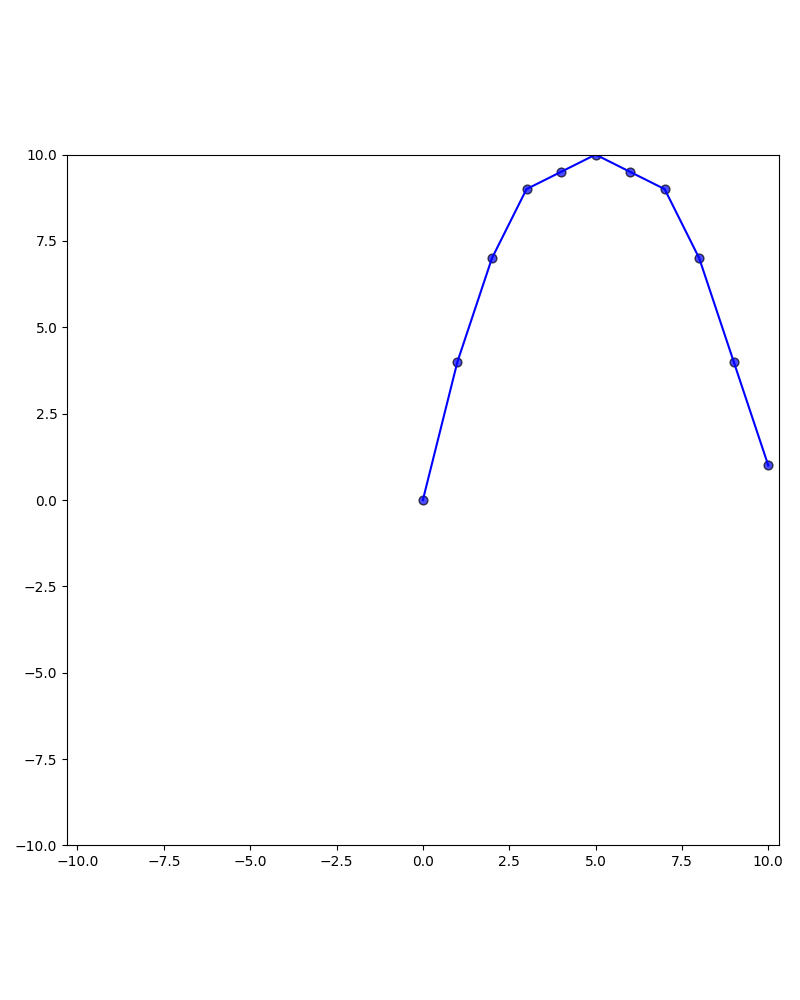
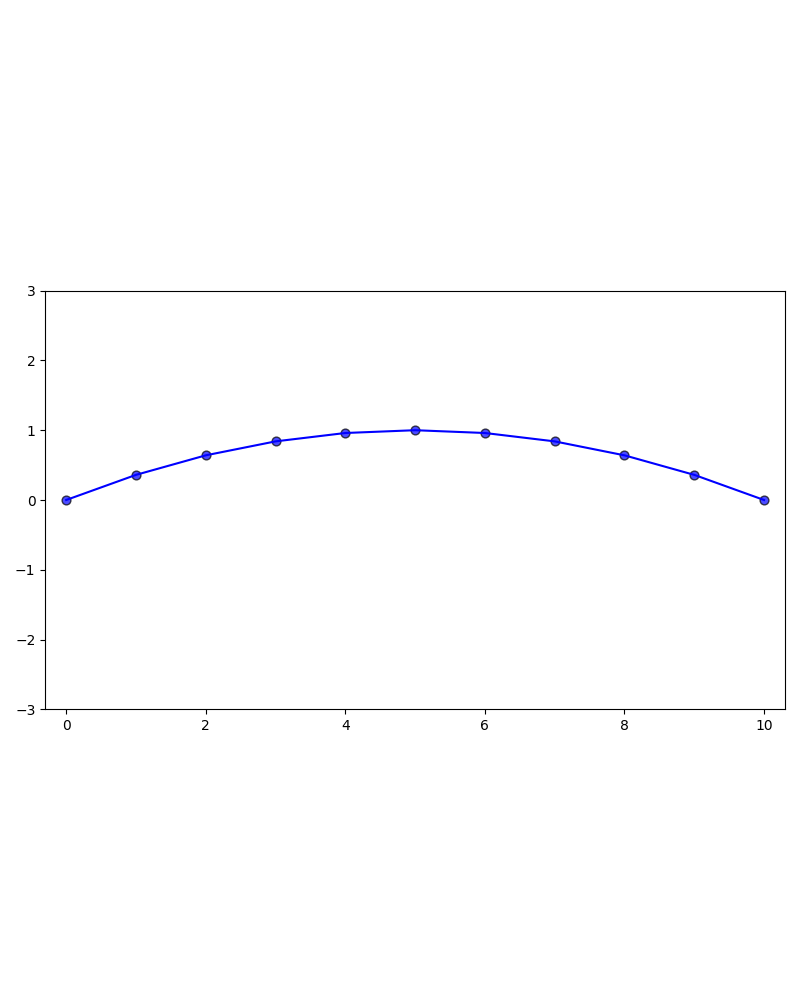
can decline, wait check

diff --git a/mylib/type.py b/mylib/type.py
@@ -414,131 +414,125 @@ class GeoNonlinear: # 几何非线性
 
         return outputs
 
-    def arc_length_method(self, steps = 200, error: float=1e-3, max_p_detect = True, la_0 = 0.005) -> None:
+    def arc_length_method(self, steps = 200, error: float=1e-3, max_p_detect = True, s = 0.005) -> None:
         # try:
-        # 弧长迭代求解
         self.calculateNumber()
         self.integratePe()
         F = [np.zeros((self.points_num * 3, 1))]
         u = [np.zeros((self.points_num * 3, 1))]
-        P = []  # 初始化P
-        P.append(la_0 * self.Pe)
+        la: list[float] = [0]
+        
         outputs: list[OutputData] = []
-        la = la_0
-        peak = False  # 是否达到峰值
 
         for step in range(steps):
             iter: int = 0
-            P_step = P[step].copy()  # 逐步加载
             F_step = F[step].copy()
             u_step = u[step].copy()
+            la_step = la[step]
+            if step == 0:
+                d_init = np.vstack((u_step, la_step))
+            else:
+                d_init = np.vstack((u_step - u[step - 1], la_step - la[step - 1]))
 
-            R_step = P_step - F_step
-            dL = 0
-            self.integrateKe()
-            max_p = False
-            # dLs = []
-
-            while max(abs(R_step)) >= error * max(abs(la_0 * self.Pe)):
+            while iter == 0 or max(abs(R_step)) >= error * max(abs(la_step * self.Pe)):
                 iter += 1
-                print(f"step: {step}, iteration: {iter}, la: {la}")
+                print(f"step: {step}, iteration: {iter}, la: {la_step}")
                 self.reset()
-                self.calculateA(R_step)
-                u_step_delta = np.array(self.Result).reshape((self.points_num * 3, 1))
-                f_step_delta = dL * self.Pe.reshape((self.points_num * 3, 1))
-                # vector_delta = np.vstack((u_step_delta, f_step_delta))
-                vector_delta = np.vstack((u_step_delta, dL))
-                back = np.matmul(vector_delta.T, vector_delta)[0][0]
-                if back < 0:  # 如果
-                    dL = -dL
-                if step == 78:
-                    1==1
-
-
-                for unit in self.units:
-                    unit.split_displacement()
-                    delta_F = unit.calculateF()
-                    unit.unit_F += delta_F
-                F_step = self.integrateF()
-
-                u_step += u_step_delta
-                R_step = P_step - F_step
-                for point in self.points:
-                    point.update()
-                for unit in self.units:
-                    unit.update()
                 self.integrateKe()
 
-                # region calculate delta_lambda
+                if iter == 1:
+                    self.calculateA(self.Pe)
+                    u_step_delta = np.array(self.Result).reshape((self.points_num * 3, 1))
+                    dL = s/np.sqrt(np.matmul(u_step_delta.T, u_step_delta)[0][0]+1)
+                    # self.Result = dL * self.Result
+                    u_step_delta *= dL
+                    for point in self.points:
+                        point.ax *= dL
+                        point.ay *= dL
+                        point.a_theta *= dL
+                    # f_step_delta = dL * self.Pe.reshape((self.points_num * 3, 1))
+                    # d_delta = np.vstack((u_step_delta, f_step_delta))
 
-                ff = np.matmul(self.Pe.T, self.Pe)[0][0]  
-                inv = np.linalg.inv(self.Kg_calc)
-                
-                cl = self.addConstraint()
-                mask = [i for i in range(self.points_num * 3) if i not in cl]
-                r = R_step[np.ix_(mask)].reshape((self.points_num * 3 - len(cl), 1))
-                x = u_step[np.ix_(mask)].reshape((self.points_num * 3 - len(cl), 1))
+                    d_delta = np.vstack((u_step_delta, dL))
+                    if np.matmul(d_delta.T, d_init)[0][0] < 0:
+                        dL = -dL
+                        u_step_delta = -u_step_delta
+                        for point in self.points:
+                            point.ax = -point.ax
+                            point.ay = -point.ay
+                            point.a_theta = -point.a_theta
 
-                Kr = np.matmul(inv, r).reshape((self.points_num * 3 - len(cl), 1))
-                Kf = np.matmul(inv, self.Pe_calc)
+                    for unit in self.units:
+                        unit.split_displacement()
+                        delta_F = unit.calculateF()
+                        unit.unit_F += delta_F
+                    F_step = self.integrateF()
+                    for point in self.points:
+                        point.update()
+                    for unit in self.units:
+                        unit.update()
 
-                a = (ff + np.matmul(Kf.T, Kf))
-                b = 2*(la*ff - np.matmul(Kf.T, (Kr + x)))[0]
-                c = (np.matmul(Kr.T, (Kr+2*x)))[0][0]
-
-                roots = np.roots([a, b, c])
-                dL = roots[np.argmin(abs(roots))].real  # 选择最小的根
-                
-                # endregion
-
-                la += dL
-                P_step += dL * self.Pe
-                R_step += dL * self.Pe
-                for ci in self.cl:
-                    R_step[ci] = 0
-
-                # region check divergence
-
-                # dLs.append(dL)
-                # if len(dLs) > 2 and dLs[-1] * dLs[-2] < 0 and abs(dLs[-1]) > abs(dLs[-3]):
-                #     print(f"Warning: dL is increasing: {dLs[-1]} > {dLs[-2]}")
-                #     la_0 = -la_0
-                #     la += 2*la_0
-                #     P_step += 2*la_0 * self.Pe
-                #     R_step += 2*la_0 * self.Pe
-                #     for ci in self.cl:
-                #         R_step[ci] = 0
-                #     dLs = []
-                # endregion
-
-            # region max load detection
-            """ peak detection == True"""
-            if max_p_detect:
-                if max(abs(self.Pe - P_step))/max(abs(self.Pe)) < error: # 如果弧长接近1，认为达到了目标荷载
-                    max_p = True
-
-                if max(abs(P_step + la_0 * self.Pe))/max(abs(self.Pe)) < 1:
-                    P_step += la_0 * self.Pe
-                    la = la_0
+                    u_step += u_step_delta
+                    la_step += dL
+                    R_step = la_step * self.Pe - F_step
+                    for c in self.cl:
+                        R_step[c] = 0
+                    continue
                 else:
-                    P_step = self.Pe
-                    la = la_0
-            else:
-                """peak detection == False"""
-                P_step += la_0 * self.Pe
-                la += la_0
-            # endregion
+                    # region calculate delta_lambda
 
+                    ff = np.matmul(self.Pe.T, self.Pe)[0][0]  
+                    inv = np.linalg.inv(self.Kg_calc)
+                    
+                    cl = self.addConstraint()
+                    mask = [i for i in range(self.points_num * 3) if i not in cl]
+                    r = R_step[np.ix_(mask)].reshape((self.points_num * 3 - len(cl), 1))
+                    x = u_step[np.ix_(mask)].reshape((self.points_num * 3 - len(cl), 1))
+
+                    Kr = np.matmul(inv, r).reshape((self.points_num * 3 - len(cl), 1))
+                    Kf = np.matmul(inv, self.Pe_calc)
+
+                    a = (ff + np.matmul(Kf.T, Kf))
+                    b = 2*(la_step*ff - np.matmul(Kf.T, (Kr + x)))[0]
+                    c = (np.matmul(Kr.T, (Kr+2*x)))[0][0]
+
+                    roots = np.roots([a, b, c])
+                    dL = roots[np.argmin(abs(roots))].real  # 选择最小的根
+                    
+                    # endregion
+
+                    la_step += dL
+                    R_step = la_step * self.Pe - F_step
+                    for c in self.cl:
+                        R_step[c] = 0
+                    self.calculateA(R_step)
+                    u_step_delta = np.array(self.Result).reshape((self.points_num * 3, 1))
+                    for unit in self.units:
+                        unit.split_displacement()
+                        delta_F = unit.calculateF()
+                        unit.unit_F += delta_F
+                    F_step = self.integrateF()
+                    u_step += u_step_delta
+                    for point in self.points:
+                        point.update()
+                    for unit in self.units:
+                        unit.update()
+                    R_step = la_step * self.Pe - F_step
+                    for ci in self.cl:
+                        R_step[ci] = 0
             F.append(F_step)
             u.append(u_step)
-            P.append(P_step)
-            outputs.append(OutputData(self.points).__copy__())
+            la.append(la_step)
 
-            if max_p:
+            # region max load detection
+            if (max_p_detect and 1-la_step < error):
                 break
+            # endregion
+
+            outputs.append(OutputData(self.points).__copy__())
         # except Exception as e:
         #     print(f"Error in arc_length: {e}")
-        return outputs
+        return outputs, la, F, u
     
 class OutputData:
     points:list[Point] = []

diff --git a/test.py b/test.py
@@ -7,12 +7,19 @@ model_name = "arch"
 input_path = os.path.join(os.getcwd(), "input", f"{model_name}.txt")
 model = reader.readFile(input_path)
 # output = model.iterate()
-output = model.arc_length_method(steps=500, la_0=0.005)
+output, la, F, u = model.arc_length_method(steps=10000, s=0.0005, max_p_detect=False)
+
+
 output_path = os.path.join(os.getcwd(), "output", f"{model_name}.txt")
 if not os.path.exists(os.path.dirname(output_path)):
     os.makedirs(os.path.dirname(output_path))
 
 for i, o in enumerate(output):
-    if i % 10 == 0:
+    if i % 200 == 0:
         writer.writeFile(output_path.replace(".txt", f"_{i:05d}.txt"), o)
         print(i, o)
+
+        
+plt.plot([-item[16][0] for item in u], la)
+plt.show()
+a = input("Press Enter to continue...")

diff --git a/mylib/drawer.py b/mylib/drawer.py
@@ -3,7 +3,7 @@ from . import type
 
 def d(data: type.OutputData, path):
     x = [p.x + p.ax for p in data.points]
-    y = [10*p.y + p.ay for p in data.points]
+    y = [p.y + p.ay for p in data.points]
     fig, ax = plt.subplots(figsize=(8, 10), tight_layout = True)
     ax.set_aspect('equal')
     
@@ -23,10 +23,10 @@ def d(data: type.OutputData, path):
         linewidth=1.5,     # 线宽
         linestyle='-',     # 线型
     )
-    x_min = -10.3#min(x) - 0.2
-    y_min = -10#min(y) - 0.2
+    x_min = -0.3#min(x) - 0.2
+    y_min = -3#min(y) - 0.2
     x_max = 10.3#max(x) + 0.2
-    y_max = 10#max(y) + 0.2
+    y_max = 3#max(y) + 0.2
     ax.set_xlim(x_min,x_max)
     ax.set_ylim(y_min,y_max)
     # plt.show()

diff --git a/play.py b/play.py
@@ -1,4 +1,4 @@
-a = [1,2]
-b = [3,4]
-c = b/a
-print(c)
+a = [0]
+b = a[0]
+b = 1
+print(a, b)  # Output: [0] 1
